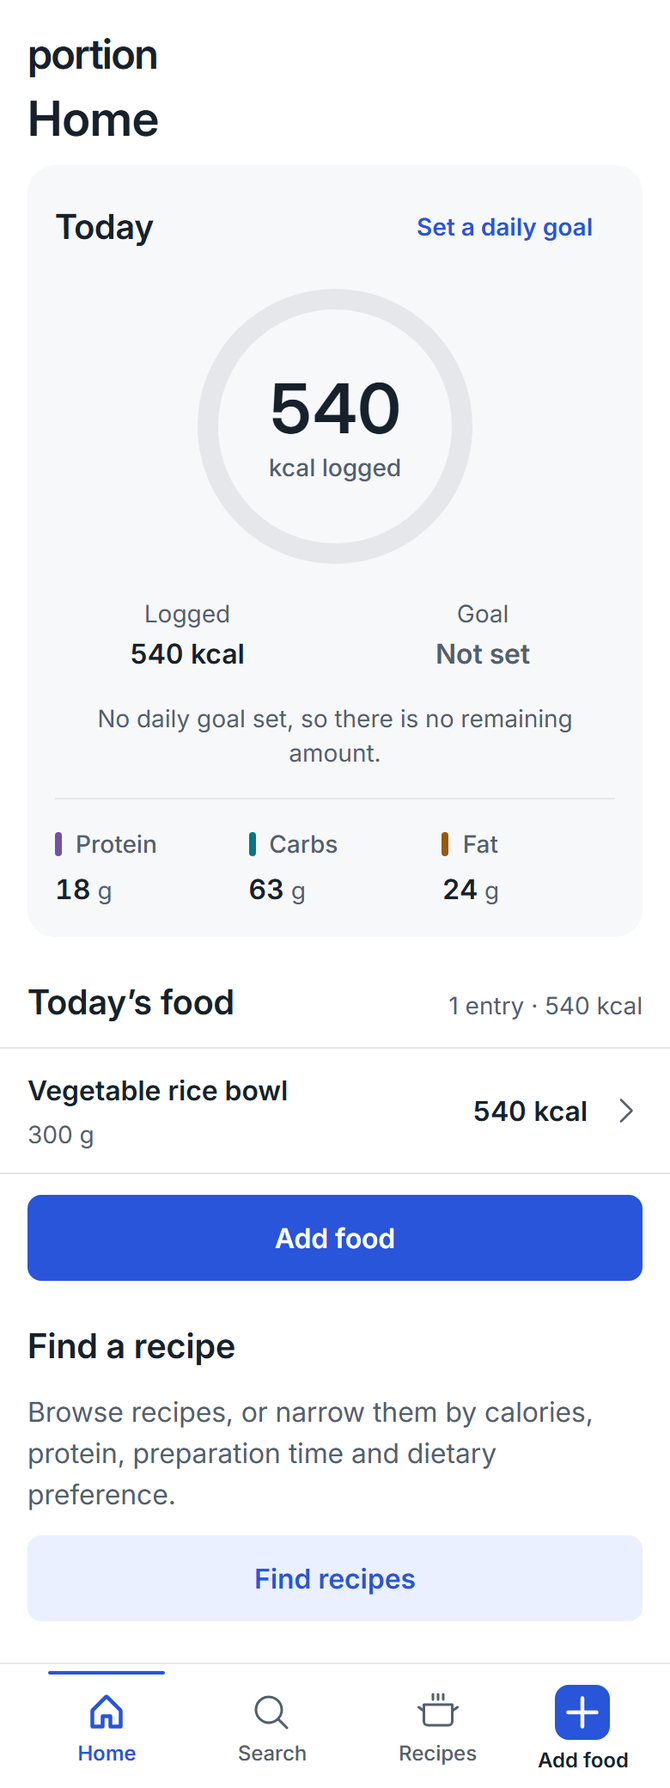
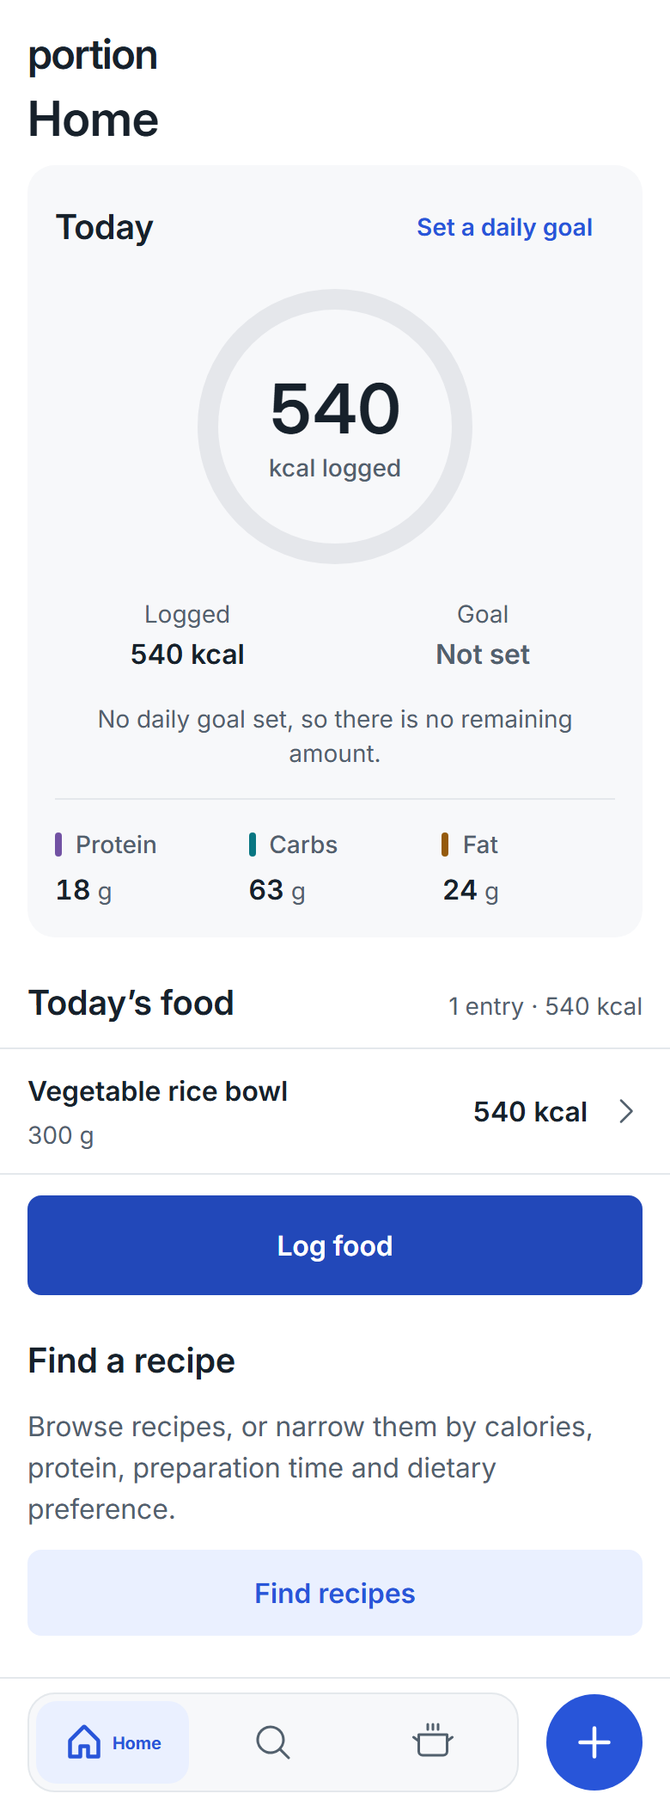
docs: record the navigation pass and refresh the verification evidence
- docs/design-system/README.md: section 17 (scope conflicts, skills,
  audit findings, reference register incl. the fetched APG tabs quotes,
  contract additions, old-to-new API, component table, verification
  results, limitations); sections 1, 3, 4, 6 and 16.7 updated in place.
- docs/design-system/contrast-matrix.md regenerated (59 pairs).
- verification/: 18 runtime and 22 Storybook captures re-rendered from
  the implementation commit and inspected; manifest.md rewritten with
  the new source commit, viewport-only modal captures and the
  navigation, tabs and method-grid rows.

diff --git a/docs/design-system/README.md b/docs/design-system/README.md
@@ -48,7 +48,7 @@ The app (`src/main.tsx`) and Storybook (`.storybook/preview.ts`) import the same
 | `FilterChip` (`selectionRole="radio"`) | A longer or wrapping mutually-exclusive set | `radiogroup` / `radio` | Recipe filters' dietary preference (5 options, wraps) |
 | `FilterChip` (`selectionRole="toggle"`) | An independent on/off filter, others unaffected | `aria-pressed` | (capability exists; no current multi-toggle-filter screen) |
 | `Radio` / `Checkbox` | A single labelled option inside an ordinary form, not a compact control row | native `radio`/`checkbox` | `UnitSheet`'s unit list |
-| `NavigationBar` | The app's three fixed root destinations in one compact group, plus the separate circular Log food action | `aria-current="page"` on the active destination; inactive destinations are icon-only with `aria-label`; Log food is a plain labelled button | Home / Search / Recipes + Log food |
+| `NavigationBar` | The app's three fixed root destinations in one width-filling group of equal cells, plus the separate circular Log food action | `aria-current="page"` on the active destination; inactive destinations are icon-only with `aria-label`; Log food is a plain labelled button | Home / Search / Recipes + Log food |
 | `UnitControl` → `UnitSheet` | A choice that opens a separate modal draft rather than switching content immediately | `aria-haspopup="dialog"` | Amount field's unit selector |
 
 `SegmentedControl` and the radio-mode `FilterChip` look similar (both are "pick one of several") but answer different questions: `SegmentedControl` is for a small, fixed, always-visible set of task-level modes where the surrounding content itself is what changes; `FilterChip` is for a longer or more open-ended set of values being narrowed, filtered or wrapped, where selection is one input among several rather than the entire visible context.
@@ -101,7 +101,7 @@ Status labels: **Documented** (rule exists in a contract only), **Observed in cu
 | 8 | Nutrition presentation (main result, macros, expanded list, unknown vs zero, precision) | Observed in current code | Unknown = "Not available"; known zero shown as 0; small mg values keep precision; fibre nested under carbohydrates | `ui-contract.md` §1, §4 | `NutritionValue`, `NutrientRow`, `NutritionSummary`, `nutrition.ts` | Components/NutritionValue, NutrientRow; Patterns/NutritionSummary | Unit tests (`nutrition.test.ts`, `calculation.test.ts`), story assertions, fixtures C/R in walkthrough | — |
 | 9 | Recipe presentation (card 4:3, details 16:9, no photo, long titles, match evidence) | Observed in current code | Title is the single control with a stretched hit area; no match claim without active criteria | `ui-contract.md` §5 | `RecipeCard`, `MatchCriteria`, `RecipeList` | Patterns/RecipeCard; Components/MatchCriteria | Story assertions incl. 320 px long title | Real photography and licences remain out of scope |
 | 10 | Feedback and status (inline messages, empty/no-match/failure, loading, spinner, reduced motion) | Observed in current code | Cause-specific copy and actions; failure uses `alert`, others `status`; no skeletons | `ui-contract.md` §5.6 | `InlineMessage`, `EmptyState`, `LoadingState`, `Spinner` | Components/InlineMessage, EmptyState, LoadingState; Primitives/Spinner | Role and reduced-motion assertions | — |
-| 11 | Navigation bar and headers (compact destination group + separate Log food action, current-page semantics, keyboard hiding) | Observed in current code — Hi-Fi (§15, §17) | The group hugs content and nothing reflows; active = bold glyph + 10/14 label + selected surface + `aria-current`, inactive = icon-only with `aria-label`; software keyboard detected from `visualViewport` shrink + text focus | `low-fidelity.md`, `ui-contract.md` §2 | `NavigationBar`, `AppHeader`, `useSoftwareKeyboard` | Patterns/NavigationBar (Home/Search/Recipes selected, Recipe Details origin ×2, interaction, Add food, Selection, Hidden, keyboard focus-visible, selected+focus-visible, 320/390/393/430, 320 + 200 %, 430 + 150 %), AppHeader | Story assertions (incl. real-Chromium focus-visible/tab-order/target-size checks); walkthrough "nav falls back to 2 × 2 at 320 + 200 %" | Keyboard hiding and safe-area behaviour are **Platform mapping / Unverified** on a real device (see §5); no browser-automation tool was available this session for a manual visual pass (see §15) |
+| 11 | Navigation bar and headers (compact destination group + separate Log food action, current-page semantics, keyboard hiding) | Observed in current code — Hi-Fi (§15, §17) | The group fills the width beside the action as three equal cells (16 px gap); under 16 rem of group width the active label stacks under its glyph; active = bold glyph + 10/14 label + selected surface + `aria-current`, inactive = icon-only with `aria-label`; software keyboard detected from `visualViewport` shrink + text focus | `low-fidelity.md`, `ui-contract.md` §2 | `NavigationBar`, `AppHeader`, `useSoftwareKeyboard` | Patterns/NavigationBar (Home/Search/Recipes selected, Recipe Details origin ×2, interaction, Add food, Selection, Hidden, keyboard focus-visible, selected+focus-visible, 320/390/393/430, 320 + 200 %, 430 + 150 %), AppHeader | Story assertions (incl. real-Chromium focus-visible/tab-order/target-size checks); walkthrough "nav falls back to 2 × 2 at 320 + 200 %" | Keyboard hiding and safe-area behaviour are **Platform mapping / Unverified** on a real device (see §5); no browser-automation tool was available this session for a manual visual pass (see §15) |
 | 12 | Overlays (bottom sheet, confirm dialog, method sheet; focus containment, Escape, backdrop, restore) | Observed in current code | Native `<dialog>`; Escape handled directly because browsers skip `cancel` without user activation; scrolling text-only body is focusable | `ui-contract.md` §3, §5 | `ModalSheet`, `ConfirmDialog`, `MethodSheet` | Patterns/ModalSheet, ConfirmDialog, MethodSheet | Focus, Tab containment, Escape, restore-focus assertions; a11y at error | — |
 | 13 | Screen templates (root with bar, focused flow with sticky header/footer, safe areas) | Observed in current code | Footer stays in flow; measured header/footer heights become document scroll padding | `low-fidelity.md` | `RootScreenLayout`, `FocusedFlowLayout` | Templates/* (incl. short viewport) | Story assertions | Safe-area insets are **Platform mapping** (0 in desktop Chromium) |
 | 14 | Calculation journey screens (S01 empty/result/stale, S07 review per source, S06 manual entry with dirty check) | Observed in current code | Review confirms once and replaces; invalid draft = stale result; manual macros optional | `ui-contract.md` §4, `low-fidelity.md` | `HomeScreen`, `FoodReviewScreen`, `ManualEntryScreen`, `manual-entry.ts` | Product compositions/Home, Food review, Manual entry | Unit tests; story play functions; walkthrough checks 3–14 | — |
@@ -125,19 +125,19 @@ Status labels: **Documented** (rule exists in a contract only), **Observed in cu
 | Reduced motion | `prefers-reduced-motion` → 0 ms | `isReduceMotionEnabled` | Verified through the data attribute path |
 | Typeface | Inter Variable | SF Pro | Inter is the approved brand face |
 
-## 6. Verification status (last executed 2026-09-04 for the Hi-Fi migration, §16.9; the table below is the current state)
+## 6. Verification status (last executed 2026-09-04 after the navigation pass, §17.8; the table below is the current state)
 
 | Check | Command | Result |
 | --- | --- | --- |
 | Typecheck | `npx tsc --noEmit -p tsconfig.json` | exit 0 |
-| Token validity and drift | `node scripts/tokens/build.mjs --check` | 218 tokens validated; generated output current |
+| Token validity and drift | `node scripts/tokens/build.mjs --check` | 235 tokens validated; generated output current |
 | Unit tests (node) | `npx vitest run --project=unit` | 5 files, 50 tests passed |
-| Storybook tests (headless Chromium, axe at `error`) | `npx vitest run --project=storybook` | 63 files, 311 tests passed |
+| Storybook tests (headless Chromium, axe at `error`) | `npx vitest run --project=storybook` | 63 files, 310 tests passed |
 | App build | `npm run build` | success (Inter opsz woff2 + CSS + JS bundles) |
 | Storybook build | `npm run build-storybook` | success (`storybook-static/`, ignored) |
-| Runtime walkthrough | `npm run build && npx vite preview --port 4173` then `node scripts/verify/runtime-walkthrough.mjs` | 37/37 checks passed, 0 console/page errors, 55 screenshots in `.verification/runtime/` |
-| Storybook captures | `npm run build-storybook` then `node scripts/verify/storybook-captures.mjs` | 31 captures, 0 page errors, in `.verification/storybook/` |
-| Contrast matrix | `node scripts/verify/contrast-matrix.mjs --check` | 54 pairs, 0 failing |
+| Runtime walkthrough | `npm run build && npx vite preview --port 4173` then `node scripts/verify/runtime-walkthrough.mjs` | 38/38 checks passed, 0 console/page errors, 55 screenshots in `.verification/runtime/` |
+| Storybook captures | `npm run build-storybook` then `node scripts/verify/storybook-captures.mjs` | 37 captures, 0 page errors, in `.verification/storybook/` |
+| Contrast matrix | `node scripts/verify/contrast-matrix.mjs --check` | 59 pairs, 0 failing |
 | Impeccable detector | `node .claude/skills/impeccable/scripts/detect.mjs --json src` | no findings |
 
 Rendered inspection performed by reading the walkthrough screenshots (Calculate empty/result/stale/servings/expanded, method sheet, search results, review from search/barcode/photo/manual, manual errors, filters sheet, filtered browse, recipe details expanded, search failure, 320/393/430 widths, 320 px + 200 % and 390 px + 200 %); re-read after §10's refactor for Calculate result, Food review, Recipes filtered, Recipe details and Search results (no pixel changed); after §11, screenshotting Components/SegmentedControl, Foundations/Icons → Size catalogue and Search's Interactive story directly from `storybook-static`; and after §12, re-reading the manual-entry discard dialog and unit-sheet screenshots specifically to confirm Cancel/Confirm now render as a real equal-width side-by-side pair. The unit-change and 2 × 2 fallback defects found by the original inspection were fixed and re-verified; §10–§12 list what each pass found and fixed.
@@ -491,7 +491,7 @@ No 10 px role was added: `nav-label-compact` would be a verified fallback only, 
 
 | Check | Command | Result |
 | --- | --- | --- |
-| Token validity and drift | `npm run tokens:check` | 218 tokens validated; generated output current |
+| Token validity and drift | `npm run tokens:check` | 235 tokens validated; generated output current |
 | Typecheck | `npm run typecheck` | exit 0 |
 | Unit tests (node) | `npx vitest run --project unit` | 5 files, 50 tests passed (12 new in `daily-log.test.ts`) |
 | Storybook tests (headless Chromium, axe at `error`) | `npx vitest run --project storybook` | 63 files, 311 tests passed; one run under parallel build load produced a single timing failure in `PhotoScreen.stories.tsx` that passed alone and on the final rerun |
@@ -510,3 +510,96 @@ Rendered inspection: every capture listed in `verification/manifest.md` was read
 ### 16.10 CSS px versus iOS points, and sources
 
 All values in this repository are CSS px in a browser prototype. The iOS column of section 5 is a mapping: nothing here converts to points, and Apple's guidance is used as a design reference, not as evidence of native compliance. Sources consulted: [Apple UI design tips](https://developer.apple.com/design/tips/), [Human Interface Guidelines](https://developer.apple.com/design/human-interface-guidelines/), [HIG Accessibility](https://developer.apple.com/design/human-interface-guidelines/accessibility), [HIG Layout](https://developer.apple.com/design/human-interface-guidelines/layout), [WCAG 2.2 Contrast (Minimum)](https://www.w3.org/WAI/WCAG22/Understanding/contrast-minimum.html), [WCAG 2.2 Non-text Contrast](https://www.w3.org/WAI/WCAG22/Understanding/non-text-contrast.html), [WCAG 2.2 Reflow](https://www.w3.org/WAI/WCAG22/Understanding/reflow.html), and the WAI-ARIA Authoring Practices radio-group pattern for SegmentedControl only.
+
+## 17. Navigation group, action-coloured segmented control, large button and 2 × 2 method grid (2026-09-04, `feat/navigation-hifi`)
+
+Second Hi-Fi pass, on top of §16. Same rules: in-place migration, no parallel components, Storybook is the executable specification, every claim below names its evidence.
+
+### 17.1 Scope conflicts and resolutions
+
+| Conflict | Sources | Resolution (owner updated) |
+| --- | --- | --- |
+| The plus was labelled **Add food** everywhere; the brief requires the persistent action to be **Log food** (`aria-label="Log food"`) | `low-fidelity.md` §3/§5, `ui-contract.md` §5, `PRODUCT.md`, `CLAUDE.md` | One name for the entry action: the bar's plus, the O01 sheet title and Home's body action (Log food / Log first food) are all **Log food**; **Add to today** remains the commit. Dated implementation notes in both UX contracts; `PRODUCT.md`, `AGENTS.md`, `CLAUDE.md` wording updated. |
+| `caption` 12 px was documented as the absolute floor and no 10 px role existed; the brief requires the active navigation label at **10/14, 700** | `visual-direction.md` §4, §16.5 | One base role `nav-label-active` (10/14, 700) restricted to the active bottom-navigation label, which is redundant with the bold glyph and the selected surface and never carries content; contrast 5.4:1. `caption` stays the floor for content text. Weight 700 added as `reference.font.weight.bold` (Inter Variable already covers 100–900; no new font file). |
+| The method sheet fell back to rows at 320 px (threshold 20 rem); the brief requires a normal **2 × 2 at 320–430 px**, rows only under enlarged text or a genuinely constrained width | `low-fidelity.md` §5 (O01), §16 | Threshold lowered to **17 rem**: 320 px keeps 2 × 2 with wrapping titles (288 px of sheet body); 200 % text on every width falls to rows. Contract sentence corrected; Storybook and the walkthrough assert 2 columns at 320 and 1 at 200 %. |
+| `SegmentedControl` was radio-only; the brief requires tab semantics for the Food \| Recipes **content switcher** when that matches the consumer | §11 decision ("the control never owns the panel") | Both are true of different consumers, so the control gained `pattern="radio" \| "tabs"`: Search's switch owns the results panel and now renders `tablist`/`tab`/`aria-controls` over a real `tabpanel`; the radio default remains for a mode that changes what a screen asks. Automatic activation per the APG. |
+| The group was first shipped hugging its content beside the action (large empty middle); the follow-up instruction requires the three destinations to **fill** the width evenly with a deliberate gap before the action | this pass | The group is a flex item (`flex: 1 1 0%`) of three equal cells; a 16 px gap (larger than the group's 4 px rhythm, equal to the page inset) separates the circular action. Under 16 rem of group width the active label stacks under its glyph instead of overflowing. |
+
+### 17.2 Skills and commands actually applied
+
+`impeccable doctor` (no drift), then shape → critique → audit → typeset → layout → distill → adapt → harden → polish applied inline from the installed references (the sub-agent-based critique/audit ran degraded, as in §16.2); the detector hook scanned every UI file written (no findings) and the final `detect.mjs --json src` scan reported no findings (`[]`). The frontend-design, portion-design-system and portion-visual-quality skills were used as the quality bar; no skill was installed or duplicated. The Chrome DevTools MCP remains unusable (no Chrome binary); all rendering evidence comes from Playwright's Chromium.
+
+### 17.3 Audit findings → decisions
+
+| Item | Finding (rendered baseline after §16) | Decision |
+| --- | --- | --- |
+| Button | No large size; the footer primary and Home's body action were the same 48 px control as every screen-level action | `size="large"`: 56 px, 24 px inline padding, 24 px glyph, `action-lg` label (alias of action-md: geometry, not type). Used for Add to today / Update entry / Continue to review and Home's Log food. |
+| SegmentedControl | Selected segment read as an outlined neutral button; action colour absent; disabled ≈ unselected; radio-only semantics | Selected = action fill + on-action text at 600 (`segmented-label-selected`); unselected = primary text at 500 (`segmented-label`); pressed and hover authored; disabled = disabled text, selected + disabled = disabled surface + disabled text (still contained); `pattern` prop with tabs for Search; `segmentedOptionId` export for the consumer's `tabpanel`. |
+| MethodSheet / MethodOption | Rows at 320 px; title "Add food"; description ended in "added" | 2 × 2 at every supported width (17 rem threshold); title "Log food"; description says "added to today". |
+| NavigationBar | Full-width equal 3 + 1 grid, labels on every destination at 12/16, 2 px indicator, measured 2 × 2 reflow under enlargement | One group of three equal cells filling the width beside a separate 56 px circular Log food action (16 px gap); active = bold glyph + 10/14/700 label + contained selected surface (`navigation-item` 12 inside `navigation-group` 16); inactive = regular glyph only with `aria-label`; stacking of the active label under 16 rem; no indicator, no reflow, no caption. |
+| Typography | No large-button, control-label, segmented or 10 px roles; 700 not tokenised or verified | `nav-label-active` (base), `action-lg`, `control-label`, `segmented-label`, `segmented-label-selected` (aliases); `reference.font.weight.bold`; font check extended to 400/500/600/700 in the app walkthrough and the Storybook Typography story. |
+| Tokens | No navigation roles; the round role did not name the action | `semantic.color.navigation.{surface, boundary, content, selected-surface, selected-content, action-surface, action-content}`; `semantic.radius.navigation-group` (16) and `navigation-item` (12); `round` description names the Log food action. 235 tokens. |
+| Evidence | Full-page runtime captures of open sheets showed un-scrimmed page content below the viewport (a screenshot artefact: a fixed backdrop cannot reach past the viewport); the walkthrough asserted the obsolete one-column rule | `shot()` captures the viewport while a dialog is open; column checks corrected (2 at 320, 1 at 200 %); the obsolete 2 × 2-bar check replaced by the group/gap/stacking check. |
+
+### 17.4 Reference register
+
+| Source | What was read | What was applied | What was not copied |
+| --- | --- | --- | --- |
+| Supplied reference image (three destinations in one surface, active shows icon + label, inactive icons only, separate red circular +) | Structure only | Group + separate circular action; active icon + label; inactive icons only | Glassmorphism, blur, transparency, gradient, shadow, red, icons, dimensions, spacing, typography, exact radii |
+| Apple HIG, Tab bars | Page body not readable by the fetcher (title only), as in §16.4 | Convention applied from memory, not from a quote: tab bars hold top-level destinations and not actions, so Log food stays outside the group | — |
+| WAI-ARIA APG, Tabs pattern (fetched; quotes: "Each element with role tab has the property aria-controls referring to its associated tabpanel element"; "It is recommended that tabs activate automatically when they receive focus as long as their associated tab panels are displayed without noticeable latency") | Roles, `aria-selected`/`aria-controls`, Tab/Arrow/Home/End behaviour, automatic activation | `pattern="tabs"`; Search's `tabpanel` labelled by the selected tab; automatic activation (fixture panels render without latency) | Manual activation |
+| WCAG 2.2 1.4.3 / 1.4.11 (fetched in §16.4) | Text and non-text thresholds | 59-pair matrix incl. the navigation and segment pairs | — |
+| Mature mobile products | Not inspected in this session (no device or app access); the supplied image stands for the pattern | — | — |
+
+### 17.5 Contract additions
+
+- **Type roles**: nav-label-active 10/14/700 (base); action-lg → action-md; control-label, segmented-label → label; segmented-label-selected → action-sm. `typography.css` classes and `Text` variants added; the Typography catalogue asserts each resolved value.
+- **Colour roles**: `navigation.*` as listed in 17.3; all aliases of existing semantic roles, so no new hue enters the system.
+- **Radius roles**: navigation-group 16 and navigation-item 12, chosen after rendering 12/8, 16/8, 12/12, 16/12 and a capsule with the real story (`scripts/verify/nav-radius-compare.mjs` → `.verification/compare/`): 12 read as a card, 16 as a container; 8 on the item fought the group's curve; the capsule is the rejected shape.
+- **Layout rule**: destination cells fill the group equally; a 16 px gap before the action; the active label stacks under 16 rem of group width; nothing shrinks below its role.
+
+### 17.6 Old API → revised implementation
+
+| Old | New | Consumers touched |
+| --- | --- | --- |
+| `NavigationBar` prop `onAddFood` | `onLogFood` | `App.tsx`, `HomeScreen` (its own `onAddFood` → `onLogFood`), every screen story that renders the bar |
+| Visible labels on every destination; `data-layout` reflow attribute | Active label only; no `data-layout`; inactive `aria-label` | Walkthrough check rewritten |
+| `SegmentedControl` (radio only) | `pattern?: 'radio' \| 'tabs'`, `controls?`, `id?`; `segmentedOptionId()`; `SegmentedControlPattern` type | `SearchScreen` (tabs + `tabpanel`), Search stories and the walkthrough query `tab` instead of `radio` |
+| `Button size: 'medium' \| 'small'` | `'large' \| 'medium' \| 'small'` | Review and manual-entry footers, Home's Log food |
+| `MethodSheet` title "Add food" | "Log food" | App and sheet stories query the new name |
+| Capture list | Renamed stories re-resolved; 6 captures added (navigation ×4, tabs pattern, method rows at 200 %) | `storybook-captures.mjs` |
+
+### 17.7 Component → roles → states → stories → verification (changed rows)
+
+| Component | Type roles | Colour / surface pairs | Radius | States | Stories | Verification |
+| --- | --- | --- | --- | --- | --- | --- |
+| NavigationBar | nav-label-active | navigation content/surface; selected-content/selected-surface; action-content/action-surface | navigation-group, navigation-item, round | selected, unselected, hover, pressed, focus-visible, hidden; stacked label under 16 rem | Patterns/NavigationBar → Home/Search/Recipes selected, Recipe Details origin, Interaction, Log food action, Selection, Hidden, Keyboard, 320 (stacked), 390, 393, 430, 320 at 200 % | 14 story assertions; captures 32–35; walkthrough 01/04/07/50/51 |
+| SegmentedControl | segmented-label, segmented-label-selected | on-action/primary; primary/sunken; disabled text/disabled surface | control, control-compact | selected, unselected, hover, pressed, focus-visible, disabled, selected + disabled; radio or tabs | Components/SegmentedControl → 13 stories incl. Tabs pattern, Pressed, Selected + disabled | 13 story assertions; captures 04–08, 36; walkthrough 04 |
+| Button | action-lg, action-md, action-sm | unchanged | control | unchanged + large | Primitives/Button → Treatments × sizes (3 sizes) | story assertions; capture 01; walkthrough 06/22 |
+| MethodSheet / MethodOption | method-title, supporting | unchanged | card, sheet | 2 × 2 at every width; rows under 17 rem | Patterns/MethodSheet → 320 keeps 2 × 2, 200 % rows | captures 09–11, 37; walkthrough 02/54/55 |
+
+### 17.8 Verification (executed 2026-09-04, final state of this pass)
+
+| Check | Command | Result |
+| --- | --- | --- |
+| Tokens | `npm run tokens:check` | 235 tokens validated; generated output current |
+| Typecheck | `npm run typecheck` | exit 0 |
+| Unit tests | `npx vitest run --project unit` | 50 passed |
+| Contrast matrix | `node scripts/verify/contrast-matrix.mjs --check` | 59 pairs, 0 failing (navigation and segment pairs added; the obsolete indicator-on-canvas pair removed) |
+| Storybook tests | `npx vitest run --project storybook` | 63 files, 310 tests passed (axe at `error`) |
+| App build / Storybook build | `npm run build` / `npm run build-storybook` | both succeed |
+| Runtime walkthrough | `node scripts/verify/runtime-walkthrough.mjs` | 38 checks passed, 0 failed, no console errors; 55 captures (weights 400/500/600/700 confirmed loaded) |
+| Storybook captures | `node scripts/verify/storybook-captures.mjs` | 37 captures, 0 with problems (no play exceptions) |
+| Radius comparison | `node scripts/verify/nav-radius-compare.mjs` | 5 renders inspected (17.5) |
+| Detector | `node .claude/skills/impeccable/scripts/detect.mjs --json src` | `[]` — no findings |
+
+Rendered inspection (full resolution, by reading the files): navigation at 390 and 320 (Home, Search, Recipes selected; stacked label at 320 and at 320 / 200 %; keyboard ring on the active cell), the five radius variants, the segmented control in all four availability × selection states and as tabs with a panel, the three button sizes across all treatments, the 2 × 2 sheet at 320 and its rows at 390 / 200 %, and every runtime screen that carries the bar. Manual assistive-technology and real-device passes were not performed.
+
+### 17.9 Limitations
+
+- No screen-reader or real-device pass; tab semantics, `aria-current`, `aria-label` names and focus order are verified by story assertions and axe, not by a person using VoiceOver.
+- Apple HIG pages remain unreadable to the fetcher; the tab-bar convention is applied from memory and marked as such. No mature mobile product was inspected live.
+- The pressed appearance of a segment cannot be held by the test runner; the authored `:active` rule is asserted and the appearance was inspected by hand in the browser.
+- The 10 px active label is below Apple's 11 pt guidance for native text; it is a browser prototype in CSS px, the label is redundant with the glyph and surface, and the decision is recorded here and in the visual direction.
+- The branch is unmerged; the Figma capture of the final screens and deployment remain open items from §16.10.
+- An untracked `docs/ux/audits/` directory (the user's own pre-Hi-Fi audit and Figma exports) was present during this pass and was deliberately left out of every commit.

diff --git a/verification/manifest.md b/verification/manifest.md
@@ -1,56 +1,58 @@
 # Verification evidence — manifest
 
-Curated, tracked captures of the implemented product and design system after the Hi-Fi migration (`docs/design-system/README.md` §16). Every image here was rendered by a script from the committed source and then read at full resolution; the "Inspection" column is that reading, not an automated result. The complete local capture sets (55 runtime + 31 Storybook images) are regenerated into the ignored `.verification/` directory by the same scripts; only this deliberate subset is tracked, so the repository does not carry redundant or transient output.
+Curated, tracked captures of the implemented product and design system after the Hi-Fi passes (`docs/design-system/README.md` §16 and §17). Every image here was rendered by a script from the committed source and then read at full resolution; the "Inspection" column is that reading, not an automated result. The complete local capture sets (55 runtime + 37 Storybook images) are regenerated into the ignored `.verification/` directory by the same scripts; only this deliberate subset is tracked, so the repository does not carry redundant or transient output.
 
-- Source state: commit `6b830ee` (`feat(design-system): migrate the system to hi-fi in place`) on `feat/navigation-hifi`; scripts from commit `d009823`.
-- Renderer: Playwright's bundled Chromium (headless), `deviceScaleFactor: 2`, mobile emulation with touch. Enlarged text is injected as `html { font-size: 200% }`, the same mechanism the Storybook decorator uses.
-- Regenerate: `npm run build && npx vite preview --port 4173`, then `node scripts/verify/runtime-walkthrough.mjs`; `npm run build-storybook`, then `node scripts/verify/storybook-captures.mjs`. Both scripts fail on console/page errors; the Storybook script also fails when a story's play function throws.
-- Pre-redesign baseline: the previous captures (`01-calculate-empty.png` … `53-manual-390-200pct.png`, and the earlier SegmentedControl set) were local, ignored files documenting the superseded current-calculation Home and the pre-migration components; they were deleted after these replacements were inspected. Git history holds no earlier tracked images.
+- Source state: commit `0994614` (`feat(design-system): fill-width navigation group, tabs-capable segmented control, large button, 2 × 2 method grid`) on `feat/navigation-hifi`; every image below was rendered from that tree.
+- Renderer: Playwright's bundled Chromium (headless), `deviceScaleFactor: 2`, mobile emulation with touch. Enlarged text is injected as `html { font-size: 200% }`, the same mechanism the Storybook decorator uses. Runtime captures are full-page, except while a dialog is open, when they are the viewport (a fixed backdrop cannot reach past the viewport, so a full-page capture would show un-scrimmed content that no user sees).
+- Regenerate: `npm run build && npx vite preview --port 4173`, then `node scripts/verify/runtime-walkthrough.mjs`; `npm run build-storybook`, then `node scripts/verify/storybook-captures.mjs`. Both scripts fail on console/page errors; the Storybook script also fails when a story's play function throws. `node scripts/verify/nav-radius-compare.mjs` renders the navigation radius variants to `.verification/compare/` (inspection aid, not tracked).
+- Superseded evidence: the §16 set (rendered from `6b830ee`: content-hugging navigation with labels on every destination, radio-only segmented control, rows at 320 in the method sheet) was replaced file-for-file by the images below once each replacement had been inspected; the earlier pre-redesign captures were local, ignored files and are gone. Git history holds the §16 images at commit `9af5db9`.
 
 ## Runtime (`verification/runtime/`)
 
 | File | Surface / walkthrough step | Viewport | State | Commit | Inspection |
 | --- | --- | --- | --- | --- | --- |
-| 01-home-empty.png | S01-1 Home at launch | 390 × 844, 100 % | no entries, no goal | 6b830ee | Ring track only with "0 kcal logged", Goal "Not set", 0 g macros, "Add first food" primary, tinted "Find recipes"; Home current in the bar. Hierarchy reads ring → today's food → recipes. |
-| 02-method-sheet.png | O01 Add food sheet over Home | 390 × 844, 100 % | open, 2 × 2 | 6b830ee | Four equal tiles in contract order with action-coloured glyphs; scrim covers the bar; close control focused on open. |
-| 04-search-food-results.png | S02 Search, Food scope | 390 × 844, 100 % | 1 result for "rice" | 6b830ee | Segmented control: selected "Food" contained on the sunken track, unselected "Recipes" legible; result row with kcal and basis. |
-| 06-review-300.png | S07 Review food (new) | 390 × 844, 100 % | fixture C at 300 g = 540 kcal | 6b830ee | Small tinted "Change food", amount with unit control, 40/48 result, 20/28 macros, "Add to today" primary + "Done" text. |
-| 07-home-populated.png | S01-2 Home after Add to today | 390 × 844, 100 % | 1 entry, no goal | 6b830ee | "1 entry · 540 kcal", entry row with portion and energy, macros 18/63/24 g; ring shows logged amount with the no-goal note. |
-| 09-entry-invalid-stale.png | S07 Edit entry | 390 × 844, 100 % | invalid draft "abc" | 6b830ee | Field invalid with error text; result shows the stale placeholder, not the old 540. |
-| 13-goal-sheet.png | Goal editor over Home | 390 × 844, 100 % | empty draft | 6b830ee | Title, optional-goal explanation, kcal field with helper, tinted Cancel + primary Apply. |
-| 14-home-goal.png | S01-2 Home with goal | 390 × 844, 100 % | 540 of 2,200, 25 % | 6b830ee | Arc at a quarter, "1,660 kcal remaining" centred, Logged/Goal beneath, "Edit daily goal" action. |
-| 22-manual-errors.png | S06 Manual entry | 390 × 844, 100 % | two validation errors | 6b830ee | First invalid field focused with the ring outside the error boundary; error summary at the end; sticky footer in flow. |
-| 31-recipes-browse.png | S03-1 Recipes browse | 390 × 844, 100 % | 5 recipes, no criteria | 6b830ee | Cards with thumbnail beside text; no match claims; "Protein not available" in words on the tofu card; small tinted Filters. |
-| 34-recipes-filtered.png | S03-2 Recipes filtered | 390 × 844, 100 % | Vegan, ≤ 500 kcal, ≥ 10 g protein | 6b830ee | Applied chips, "Matches all 3 filters" evidence under each title. |
-| 38-recipe-loaded.png | S08-1 Recipe details | 390 × 844, 100 % | loaded, one active criterion | 6b830ee | 16:9 hero, title, evidence under "Your filters", nutrition summary with 20/28 macros, ingredients and numbered method; Recipes stays current. |
-| 46-remove-entry-dialog.png | Remove confirmation over S07 | 390 × 844, 100 % | dialog open | 6b830ee | Centred dialog names the food; Keep entry (safe, focused) beside tinted destructive Remove; background inert under the scrim. |
-| 50-home-320.png | S01-2 Home | 320 × 800, 100 % | 2 entries, goal 2,200 | 6b830ee | Ring keeps the figure inside; three compact macro columns fit; no horizontal overflow. |
-| 50-home-430.png | S01-2 Home | 430 × 800, 100 % | 2 entries, goal 2,200 | 6b830ee | Same composition with more breathing room; nothing stretches awkwardly. |
-| 51-home-320-200pct.png | S01-2 Home | 320 × 800, 200 % text | 1 entry, no goal | 6b830ee | Bar reflows 2 × 2; goal action wraps under "Today"; figure stacks under a medium ring; macros stack one per row; entry figure moves under the name without breaking a word. |
-| 54-method-sheet-320.png | O01 over Home | 320 × 800, 100 % | open, one column | 6b830ee | Tiles become rows with the glyph beside the text; same order and copy. |
-| 55-method-sheet-390-200pct.png | O01 over Home | 390 × 844, 200 % text | open, one column | 6b830ee | Rows at 200 %; title and description wrap; close control reachable. |
+| 01-home-empty.png | S01-1 Home at launch | 390 × 844, 100 % | no entries, no goal | 0994614 | Ring track only with "0 kcal logged", Goal "Not set", 0 g macros, large "Log first food" primary, tinted "Find recipes". Bar: three equal cells fill the group, Home active with bold glyph + label on the selected surface, 16 px gap, blue Log food circle at the inset. |
+| 02-method-sheet.png | O01 Log food sheet over Home | 390 × 844, 100 % | open, 2 × 2 | 0994614 | Title "Log food"; four equal tiles in contract order with action-coloured glyphs; scrim covers the whole viewport including the bar; close control focused on open. |
+| 04-search-food-results.png | S02 Search, Food scope | 390 × 844, 100 % | 1 result for "rice" | 0994614 | Scope switch as tabs: selected "Food" is the action-filled segment with white 600 text, "Recipes" primary text at 500 on the sunken track; result row with kcal and basis; Search active in the bar. |
+| 06-review-300.png | S07 Review food (new) | 390 × 844, 100 % | fixture C at 300 g = 540 kcal | 0994614 | Small tinted "Change food", amount with unit control, 40/48 result, 20/28 macros, large 56 px "Add to today" primary + "Done" text button. |
+| 07-home-populated.png | S01-2 Home after Add to today | 390 × 844, 100 % | 1 entry, no goal | 0994614 | "1 entry · 540 kcal", entry row with portion and energy, macros 18/63/24 g; ring shows the logged amount with the no-goal note; large "Log food" primary. |
+| 09-entry-invalid-stale.png | S07 Edit entry | 390 × 844, 100 % | invalid draft "abc" | 0994614 | Field invalid with error text; result shows the stale placeholder, not the old 540. |
+| 13-goal-sheet.png | Goal editor over Home | 390 × 844, 100 % | empty draft | 0994614 | Title, optional-goal explanation, kcal field with helper, tinted Cancel + primary Apply; scrim covers the bar. |
+| 14-home-goal.png | S01-2 Home with goal | 390 × 844, 100 % | 540 of 2,200, 25 % | 0994614 | Arc at a quarter, "1,660 kcal remaining" centred, Logged/Goal beneath, "Edit daily goal" action. |
+| 22-manual-errors.png | S06 Manual entry | 390 × 844, 100 % | two validation errors | 0994614 | First invalid field focused with the ring outside the error boundary; error summary at the end; large "Continue to review" in the sticky footer. |
+| 31-recipes-browse.png | S03-1 Recipes browse | 390 × 844, 100 % | 5 recipes, no criteria | 0994614 | Cards with thumbnail beside text; no match claims; "Protein not available" in words on the tofu card; small tinted Filters; Recipes active in the bar. |
+| 34-recipes-filtered.png | S03-2 Recipes filtered | 390 × 844, 100 % | Vegan, ≤ 500 kcal, ≥ 10 g protein | 0994614 | Applied chips, "Matches all 3 filters" evidence under the title; Recipes cell active with its inline label. |
+| 38-recipe-loaded.png | S08-1 Recipe details | 390 × 844, 100 % | loaded, one active criterion | 0994614 | 16:9 hero, title, evidence under "Your filters", nutrition summary with 20/28 macros, ingredients and numbered method; Recipes stays current in the bar. |
+| 46-remove-entry-dialog.png | Remove confirmation over S07 | 390 × 844, 100 % | dialog open | 0994614 | Centred dialog names the food; Keep entry (safe, focused) beside tinted destructive Remove; background inert under the scrim. |
+| 50-home-320.png | S01-2 Home | 320 × 800, 100 % | 2 entries, goal 2,200 | 0994614 | Ring keeps the figure inside; three compact macro columns fit; bar: equal cells, the active Home label stacks under its glyph (group under 16 rem), Log food circle intact; no horizontal overflow. |
+| 50-home-430.png | S01-2 Home | 430 × 800, 100 % | 2 entries, goal 2,200 | 0994614 | Same composition with more room; the group's cells widen to fill, label inline; nothing stretches awkwardly. |
+| 51-home-320-200pct.png | S01-2 Home | 320 × 800, 200 % text | 1 entry, no goal | 0994614 | Figure stacks under a medium ring; macros stack one per row; entry figure moves under the name; bar: stacked active label at 20 px, 48 px cells, circle unchanged, no overflow. |
+| 54-method-sheet-320.png | O01 over Home | 320 × 800, 100 % | open, 2 × 2 | 0994614 | Four tiles stay in two columns; "Scan barcode" and "Enter manually" wrap to two lines; glyphs, titles and helpers legible; close control reachable. Viewport capture: the scrim covers everything visible. |
+| 55-method-sheet-390-200pct.png | O01 over Home | 390 × 844, 200 % text | open, one column | 0994614 | Tiles become rows with the glyph beside the text (group under 17 rem); same order and copy; title and description wrap. |
 
 ## Storybook (`verification/storybook/`)
 
 | File | Story id | Viewport | State | Commit | Inspection |
 | --- | --- | --- | --- | --- | --- |
-| 01-button-treatments-sizes.png | primitives-button--treatments-and-sizes | 390, 100 % | rest | 6b830ee | Four treatments × two sizes; only primary is filled; small is visibly lighter and shorter; icon buttons align with labels. |
-| 02-button-disabled.png | primitives-button--disabled | 390, 100 % | disabled | 6b830ee | Disabled surface with the lighter disabled text; still legible; clearly unlike an enabled secondary button. |
-| 04-segmentedcontrol-default.png | components-segmentedcontrol--default | 390, 100 % | Food selected | 6b830ee | Sunken track, contained selected segment with boundary and 600 weight, unselected secondary text. |
-| 06-segmentedcontrol-disabled.png | components-segmentedcontrol--disabled-option | 390, 100 % | Recipes disabled | 6b830ee | Disabled segment faded and distinct from the enabled-unselected treatment. |
-| 08-segmentedcontrol-long-labels-320-200.png | components-segmentedcontrol--enlarged-text | 320, 200 % | long labels | 6b830ee | Labels wrap inside equal segments; nothing truncates or overflows. |
-| 12-progressring-all-states.png | primitives-progressring--all-states | 390, 100 % | zero → over, unavailable | 6b830ee | 0 % has no stray cap; near-complete keeps a visible gap; complete and over share one geometry; unavailable = track only. |
-| 15-calorie-ring-exceeded.png | product-compositions-home-s01-calorieprogressring--exceeded | 390, 100 % | 150 over | 6b830ee | Full neutral ring, "150 kcal over goal" centred, excess stated in words; no error colour. |
-| 16-calorie-ring-no-goal.png | product-compositions-home-s01-calorieprogressring--no-goal | 390, 100 % | no goal | 6b830ee | Track only, logged amount centred, Goal "Not set", explanatory note. |
-| 18-calorie-ring-320-200.png | product-compositions-home-s01-calorieprogressring--enlarged-text | 320, 200 % | 850 remaining | 6b830ee | Medium ring with the 40/48 figure beneath; Logged/Goal stacked; no overflow. |
-| 19-recipecard-with-criteria.png | patterns-recipecard--with-criteria | 390, 100 % | two criteria met | 6b830ee | Evidence directly under the title; calories · protein; basis; time and tags. |
-| 21-recipecard-200.png | patterns-recipecard--enlarged-text | 390, 200 % | stacked | 6b830ee | Thumbnail above the text; every line readable. |
-| 22-mediaframe-failed-image.png | components-mediaframe--failed-image | 390, 100 % | image failed | 6b830ee | Neutral fill with glyph and "No photo"; no browser broken-image icon. |
-| 27-goal-editor-invalid.png | product-compositions-home-s01-goal-editor--invalid-draft | 390, 100 % | "0" applied | 6b830ee | Field invalid with "Enter a goal greater than zero"; draft retained; Apply still available. |
-| 30-radius-roles.png | foundations-radius--semantic-roles | 430, 100 % | — | 6b830ee | Seven roles resolve to 0 / 4 / 8 / 12 / 16 / 16 / 9999 px. |
-
-## Obsolete or not re-captured
-
-- The superseded current-calculation Home (`50-calculate-*`, `51-calculate-320-200pct`, `07-calculate-result`, `08-calculate-invalid-stale`, `10-calculate-servings`, `11-calculate-expanded`) has no equivalent: the surface no longer exists. Its behaviour (local recalculation, stale draft, unit change, expanded nutrition) is now captured on the edit-entry screen (`08-entry-edit` … `12-entry-expanded` in the local set; `09-entry-invalid-stale` here).
-- `14-review-barcode-replaces` (replacement warning) is superseded by `17-review-barcode` (local set): the warning no longer exists.
-- Barcode, photo, filters, search-failure and no-match states are unchanged in behaviour and are covered by the local run (`15`–`30`, `32`–`45`); they are not duplicated here.
+| 01-button-treatments-sizes.png | primitives-button--treatments-and-sizes | 390, 100 % | rest | 0994614 | Four treatments × three sizes: large is visibly taller with wider padding, medium the default, small lighter and shorter; only primary is filled; icon buttons align with labels. |
+| 02-button-disabled.png | primitives-button--disabled | 390, 100 % | disabled | 0994614 | Disabled surface with the lighter disabled text; still legible; clearly unlike an enabled secondary button. |
+| 04-segmentedcontrol-default.png | components-segmentedcontrol--food-selected | 390, 100 % | Food selected | 0994614 | Sunken track; the selected segment is the action fill with white 600 text; the unselected one primary text at 500; equal widths; concentric corners. |
+| 06-segmentedcontrol-disabled.png | components-segmentedcontrol--disabled-option | 390, 100 % | Recipes disabled | 0994614 | Disabled segment in the disabled text colour beside the blue selected Food: three states (selected, enabled-unselected, disabled) are all distinct. |
+| 07-segmentedcontrol-selected-disabled.png | components-segmentedcontrol--selected-and-disabled | 390, 100 % | Recipes selected + disabled | 0994614 | The selected segment keeps a contained (now neutral) surface with disabled text; Food also disabled; both meanings readable. |
+| 08-segmentedcontrol-long-labels-320-200.png | components-segmentedcontrol--enlarged-text | 320, 200 % | long labels | 0994614 | Labels wrap inside equal segments; the selected fill grows with its text; nothing truncates or overflows. |
+| 10-methodsheet-2x2-320.png | patterns-methodsheet--narrow320 | 320, 100 % | open, 2 × 2 | 0994614 | Two columns at 320 px; wrapped titles; glyphs, titles and helpers legible; no overflow. |
+| 12-progressring-all-states.png | primitives-progressring--all-states | 390, 100 % | zero → over, unavailable | 0994614 | 0 % has no stray cap; near-complete keeps a visible gap; complete and over share one geometry; unavailable = track only. |
+| 15-calorie-ring-exceeded.png | product-compositions-home-s01-calorieprogressring--exceeded | 390, 100 % | 150 over | 0994614 | Full neutral ring, "150 kcal over goal" centred, excess stated in words; no error colour. |
+| 16-calorie-ring-no-goal.png | product-compositions-home-s01-calorieprogressring--no-goal | 390, 100 % | no goal | 0994614 | Track only, logged amount centred, Goal "Not set", explanatory note. |
+| 18-calorie-ring-320-200.png | product-compositions-home-s01-calorieprogressring--enlarged-text | 320, 200 % | 850 remaining | 0994614 | Medium ring with the 40/48 figure beneath; Logged/Goal stacked; no overflow. |
+| 19-recipecard-with-criteria.png | patterns-recipecard--with-criteria | 390, 100 % | two criteria met | 0994614 | Evidence directly under the title; calories · protein; basis; time and tags. |
+| 21-recipecard-200.png | patterns-recipecard--enlarged-text | 390, 200 % | stacked | 0994614 | Thumbnail above the text; every line readable. |
+| 22-mediaframe-failed-image.png | components-mediaframe--failed-image | 390, 100 % | onError fallback | 0994614 | The failed image shows the same sunken fallback as no-photo; no broken-image glyph. |
+| 27-goal-editor-invalid.png | product-compositions-home-s01-goalsheet--invalid-draft | 390, 100 % | "0" | 0994614 | Field invalid with the error line; Apply still present but the draft is rejected. |
+| 30-radius-roles.png | foundations-radius--roles | 390, 100 % | specimens | 0994614 | Nine roles rendered as specimens (structure 0 … navigation-group 16, navigation-item 12, round); concentric nesting example. |
+| 32-navigationbar-home-390.png | patterns-navigationbar--home-selected | 390, 100 % | Home active | 0994614 | Group fills to the 16 px gap; three equal cells; active cell = selected surface with bold glyph and inline 10/14 label; inactive glyphs only; blue 56 px circle. |
+| 33-navigationbar-recipes-320.png | patterns-navigationbar--recipes-selected | 320, 100 % | Recipes active | 0994614 | Cells still equal; the active "Recipes" label stacks under its glyph because the group is under 16 rem; nothing clipped. |
+| 34-navigationbar-320-200.png | patterns-navigationbar--enlarged-text | 320, 200 % | Home active | 0994614 | Stacked label at 20 px, bar grows to fit, cells equal, circle unchanged, no overflow. |
+| 35-navigationbar-keyboard-focus.png | patterns-navigationbar--keyboard-focus-visible | 390, 100 % | after Tab × 4 | 0994614 | The 3 px ring sits outside the Log food circle (last stop of the Home → Search → Recipes → Log food order); the active cell keeps its selected surface. |
+| 36-segmentedcontrol-tabs.png | components-segmentedcontrol--tabs-pattern | 390, 100 % | Recipes tab after click | 0994614 | The tablist with "Recipes" selected in the action fill and its tabpanel text beneath; identical geometry to the radio pattern. |
+| 37-methodsheet-rows-390-200.png | patterns-methodsheet--enlarged-text | 390, 200 % | open, rows | 0994614 | One column of rows with the glyph beside the text; titles and helpers wrap; sheet scrolls. |
